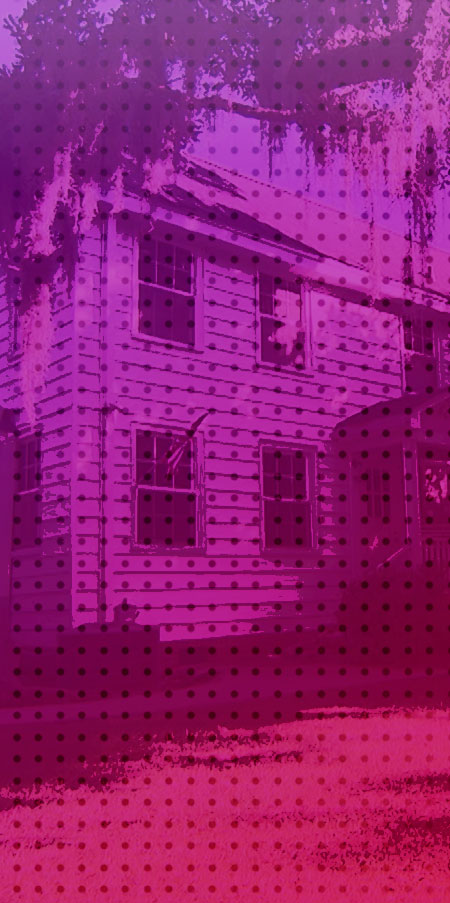
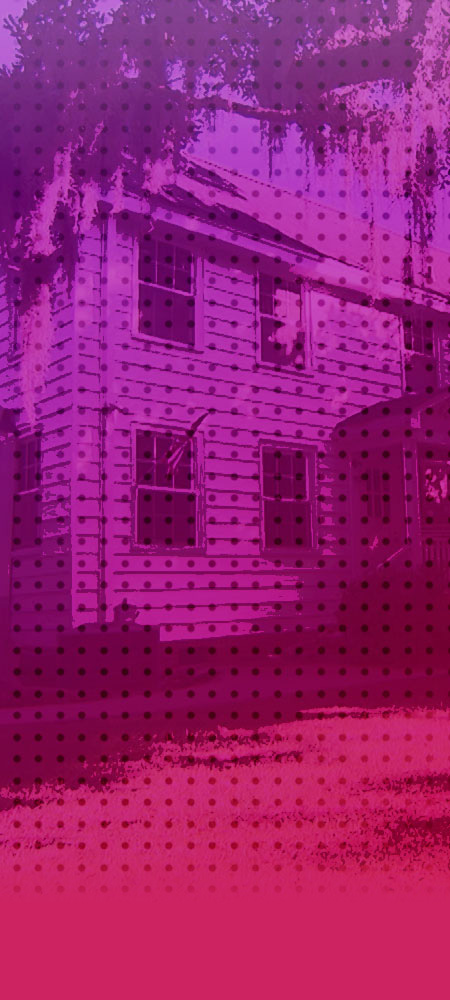
Various fixes.

diff --git a/app/js/controllers.js b/app/js/controllers.js
@@ -41,13 +41,17 @@ angular.module('cmtApp.controllers', []).
         init();
 
         function init() {
+            $scope.picIndex = 0;
+
             $scope.isVoted = false;
             $scope.isShared = false;
             $scope.isComplete = false;
-
-            $scope.picIndex = 0;
+            $scope.isMobile = false;
+            
             $scope.stampIndex = -1;
             $scope.voteIndex = -1;
+
+            $scope.txtComment = '';
 
             $scope.oResults = $scope.initResults();
             $scope.oVotes = $scope.initVotes();
@@ -55,15 +59,22 @@ angular.module('cmtApp.controllers', []).
         };
 
         $scope.tryAgain = function () {
+            $scope.picIndex = ($scope.picIndex < $scope.ui.pics.length - 1) ? ++$scope.picIndex : 0;
+
             $scope.isVoted = false;
             $scope.isShared = false;
             $scope.isComplete = false;
-
+            $scope.isMobile = false;
+                        
             $scope.stampIndex = -1;
             $scope.voteIndex = -1;
-
-            ++$scope.picIndex;
+            
             $scope.txtComment = '';
+            
+            if ($(window).width() < 768) {
+                $scope.isMobile = false;
+                $('.vote .comment').height(0);
+            };
         }
 
         $scope.stampSetIndex = function (index) {
@@ -88,9 +99,17 @@ angular.module('cmtApp.controllers', []).
             $scope.isVoted = false;
             $scope.isShared = false;
             $scope.isComplete = false;
+            $scope.isMobile = false;
 
             $scope.stampIndex = -1;
             $scope.voteIndex = -1;
+
+            $scope.txtComment = '';
+
+            if ($(window).width() < 768) {
+                $scope.isMobile = false;
+                $('.vote .comment').height(0);
+            };
         };
 
         $scope.nextPic = function () {
@@ -99,12 +118,20 @@ angular.module('cmtApp.controllers', []).
             $scope.isVoted = false;
             $scope.isShared = false;
             $scope.isComplete = false;
+            $scope.isMobile = false;
 
             $scope.stampIndex = -1;
             $scope.voteIndex = -1;
+
+            $scope.txtComment = '';
+
+            if ($(window).width() < 768) {
+                $scope.isMobile = false;
+                $('.vote .comment').height(0);
+            };
         };
 
-        $scope.$watch('picCount', function (count) {
+        $scope.$watch('picIndex', function (count) {
             if (count > 5) {
                 alert('count max');
                 $scope.picCount = 5;
@@ -125,10 +152,15 @@ angular.module('cmtApp.controllers', []).
         }
 
         $scope.voteFor = function (index) {
-            $scope.voteIndex = index;
-            $scope.stampIndex = index;
-
             if (!$scope.isVoted) {
+                $scope.voteIndex = index;
+                $scope.stampIndex = index;
+
+                if ($(window).width() < 768) {
+                    $scope.isMobile = !$scope.isMobile;
+                    $('.vote .comment').height(165);
+                };
+
                 dataServices.getVotes($scope.getIP(), $scope.ui.pics[$scope.picIndex].id, $scope.voteIndex, function (data) {
                     $scope.oResults = $.parseJSON(data);
 

diff --git a/app/css/app.css b/app/css/app.css
@@ -17,6 +17,10 @@ div {
     -webkit-user-select: none;
 }
 
+.float-right {
+    float: right;
+}
+
 .f0 {
     font-size: 14px;
 }
@@ -158,6 +162,7 @@ div {
 .main {
     background: #ffffff url('../img/body-back.png') repeat;
     overflow: hidden;
+    padding-top: 10px;
 }
 
 .blue {
@@ -177,6 +182,7 @@ div {
 
 .modal {
     font-size: 14px;
+    color: #000000;
 }
 
 .modal .modal-content {
@@ -259,7 +265,7 @@ div {
             }
 
     .view .controls {
-        padding: 10px 0 20px 0;
+        padding: 10px 0;
         font-size: 16px;
         color: #666666;
     }
@@ -284,7 +290,7 @@ div {
         margin: 50px 0 0;
         background: url('../img/vote-title.png') 0 0 no-repeat;
         color: #ffffff;
-        height: 50px;
+        height: 44px;
         width: 355px;
         text-align: left;
     }
@@ -293,7 +299,7 @@ div {
             font-size: 16px;
             font-weight: bold;
             color: #ffffff;
-            padding: 3px 0 0 20px;
+            padding: 3px 0 0 15px;
             opacity: 1;
         }
 
@@ -365,7 +371,6 @@ div {
     .vote .comment {
         padding: 15px;
         color: #000000;
-        height: 165px;
     }
 
         .vote .comment .form {
@@ -627,7 +632,7 @@ div {
 
 @media (min-width: 768px) {
     body {
-        background: url('../img/background-image-no-border.jpg') top no-repeat, #020000 !important;
+        background: #cd2361 url('../img/background-image-no-border.jpg') top no-repeat !important;
         background-position-y: 129px !important;
     }
 
@@ -673,7 +678,7 @@ div {
 
 @media (max-width: 450px) {
     body {
-        background: url('../img/background-450.jpg') top no-repeat, #020000 !important;
+        background: #cd2361 url('../img/background-450.jpg') top no-repeat !important;
         background-position-y: 129px !important;
     }
 
@@ -692,23 +697,23 @@ div {
 
 @media only screen and (min-width : 451px) and (max-width : 768px) {
     body {
-        background: url('../img/background-768.jpg') top no-repeat, #020000 !important;
+        background: #cd2361 url('../img/background-768.jpg') top no-repeat !important;
         background-position-y: 129px !important;
     }    
 }
 
 @media (max-width: 768px) {
-
     .header {
         padding: 0 10px 5px;
         height: auto;
     }
+
     .view .controls {
         padding: 5px 0;
     }
 
     .view .slider {
-        padding: 5px 0 0 0;
+        padding: 0;
     }
 
     .view .slider .title {
@@ -750,11 +755,11 @@ div {
 
     .vote .title {
         margin: 0 auto;
-        width: 280px;
+        width: 300px;
     }
 
     .vote .title h4 {
-        font-size: 16px;
+        font-size: 13px;
         padding: 3px 0 0 15px;
     }
 

diff --git a/app/partials/home.html b/app/partials/home.html
@@ -1,5 +1,5 @@
 <div class="row main">
-    <div class="col-md-6 center view">
+    <div class="col-md-6 center view" ng-hide="isMobile">
         <div class="row slider">
             <img ng-src="{{ui.main.title.url}}" alt="{{ui.main.title.alt}}" class="title" />
             <div class="frame" ng-swipe-left="prevPic()" ng-swipe-right="nextPic()">
@@ -54,7 +54,7 @@
                     <textarea ng-model="txtComment"></textarea>
                     <br />
                     <span class="hash">#PartyDownSouth</span>
-                    <button ng-click="shareVote()">Share</button>
+                    <span class="fb-share-button float-right" data-href="http://jesusducttapeorwhiskey.com" ng-click="shareVote()"></span>
                     <div class="upload">
                         Got a photo you think we should add?
                         <br class="visible-xs" />
